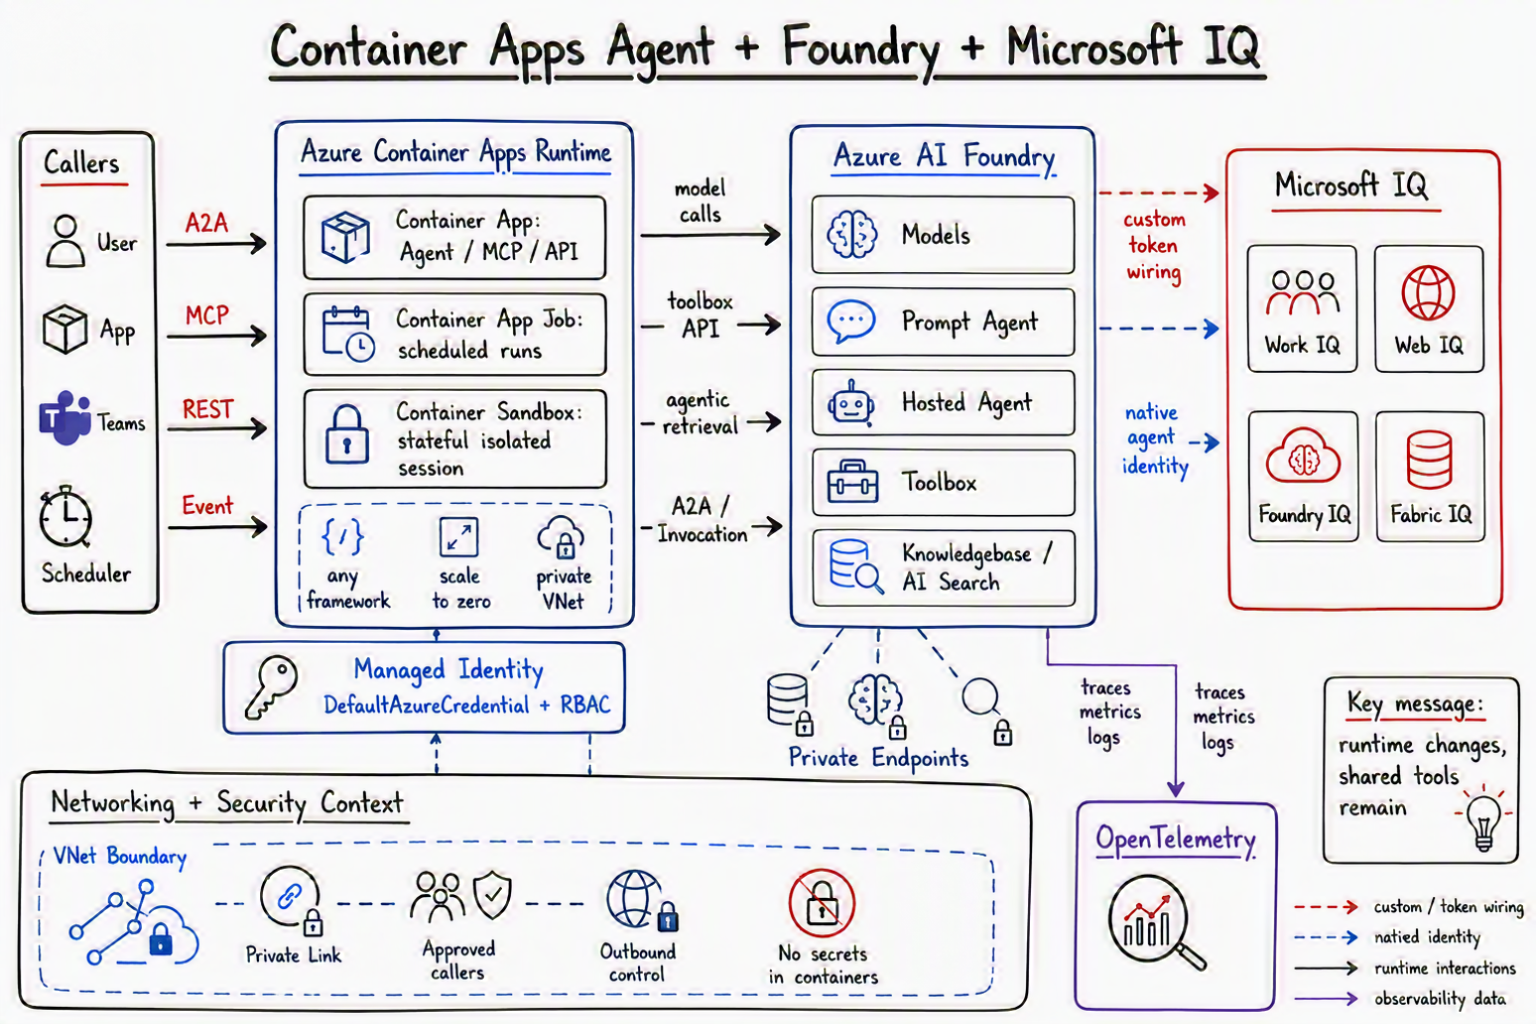
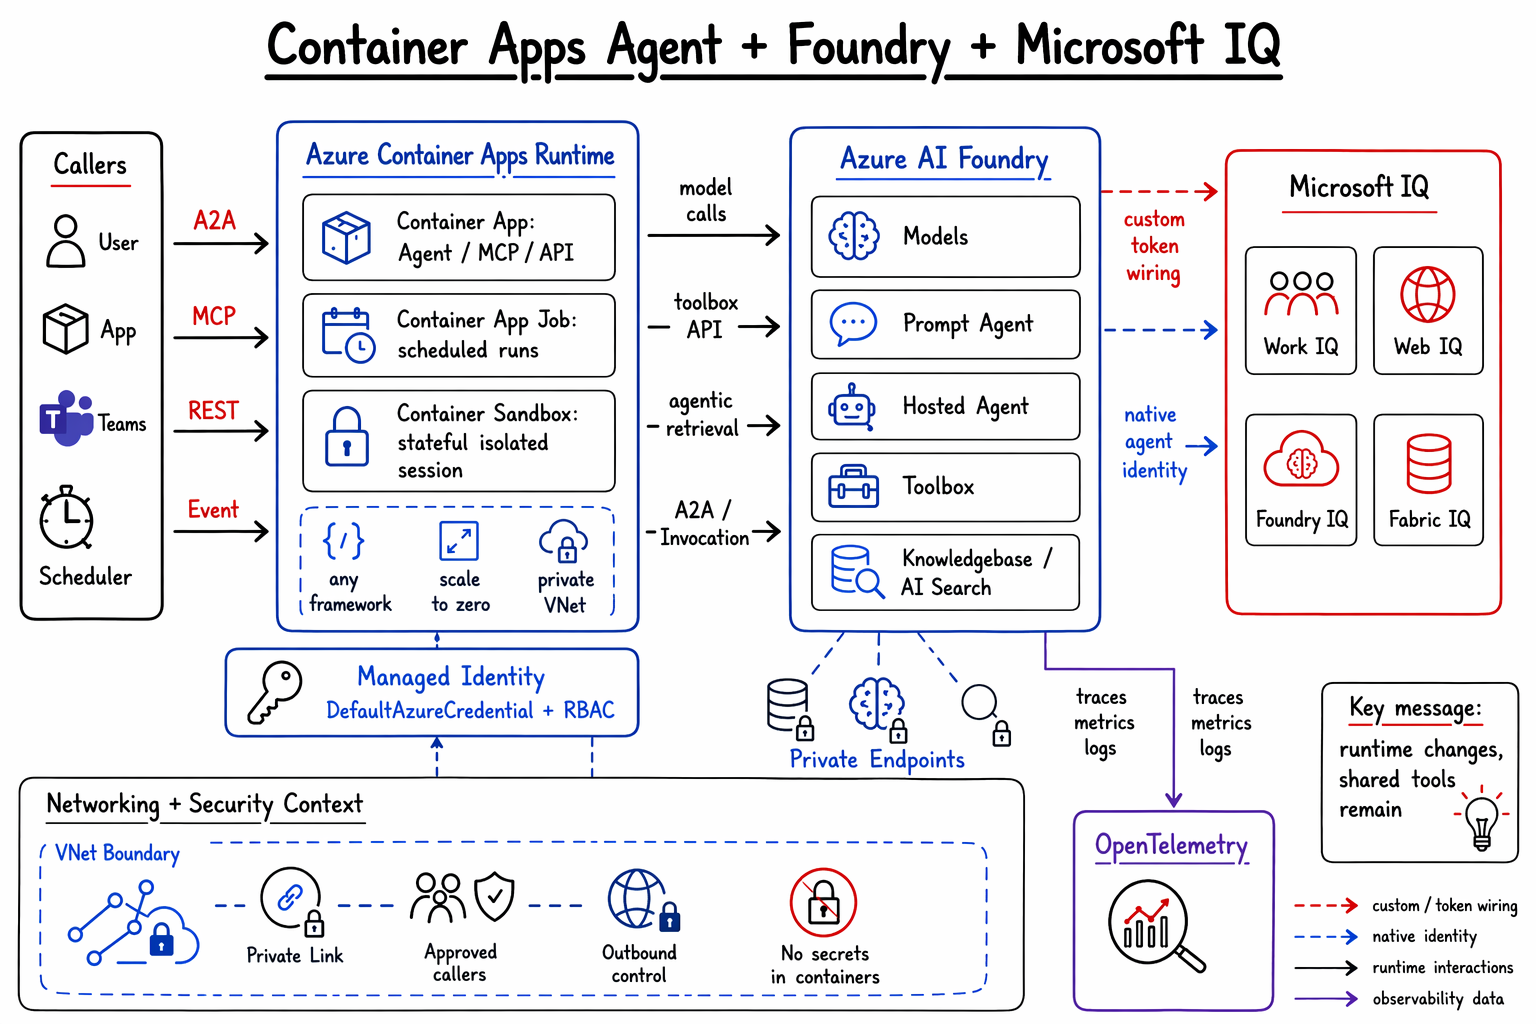
updating images

Changed region(s): [[0.0, 0.0, 1.0, 1.0], [0.8125, 0.5938, 0.9688, 0.625], [0.9688, 0.5312, 1.0, 0.5938]]

diff --git a/README.md b/README.md
@@ -4,6 +4,30 @@ End-to-end deployment documentation for the project: Azure infrastructure
 (Bicep + `azd`), the Azure AI Search index pipeline, and the Azure AI Foundry
 agent deployment scripts.
 
+## Narrative
+
+This repo tells one story: how **skills**, **tools**, and **runtimes** combine to
+build agents that go from research to action.
+
+It starts with knowledge. The **ingestion agent** reads source URLs, uses a
+**skill** to classify each one (use case, code, or method), runs the matching
+processing skill, and writes the result into Azure AI Search — populating a
+grounded knowledge base.
+
+That knowledge becomes a **tool**. The **Research MCP server** exposes the index
+over MCP (comparable case-study search and methodology recommendations), and the
+shared **toolbox** adds Bing grounding — both reachable by any agent.
+
+Then agents put it to work across different **runtimes**. A lightweight
+**prompt agent** (the concierge) classifies intent and routes to specialists.
+**Hosted agents** run as containers in Azure AI Foundry, calling models and the
+toolbox. And **Shopping Claw** runs entirely inside an Azure Container Apps
+Sandbox — an OpenClaw agent that never touches your machine, exposing its canvas
+and A2UI surfaces through a gateway.
+
+The throughline: the same skills and tools are reused everywhere, while the
+runtime — prompt, hosted container, or sandbox — is chosen to fit the job.
+
 ---
 
 ## Table of contents